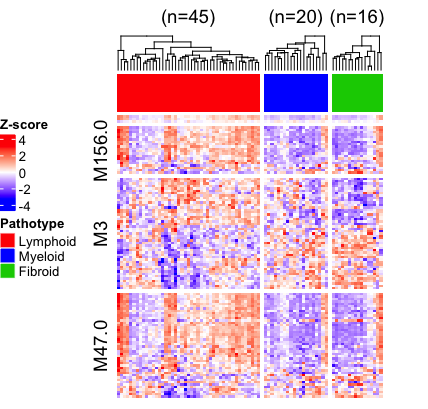
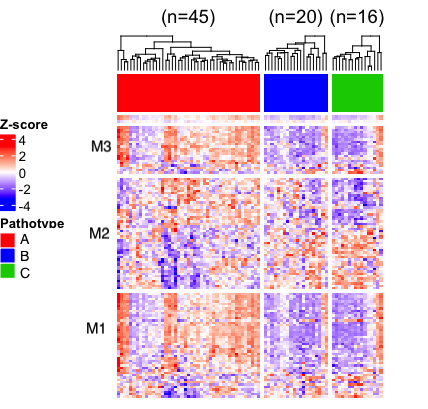
treatment group comparison added

diff --git a/README.md b/README.md
@@ -6,6 +6,8 @@
     -   [bio\_frequency](#bio_frequency)
     -   [bio\_volcano](#bio_volcano)
     -   [bio\_bires](#bio_bires)
+    -   [bio\_mods](#bio_mods)
+    -   [bio\_treatmentGroups](#bio_treatmentgroups)
 
 ------------------------------------------------------------------------
 
@@ -28,7 +30,8 @@ Gallery
     <td style="vertical-align:top" align="center" height="200"><a href="#freq">Frequency Table</a><img src= ./figs/bio_freq.png  height="50" width="330"/></td>
   </tr>
 <tr>
-    <td align="center" style="vertical-align:top" height="200"><a href="#volc">Module Plot</a><img src= ./figs/bio_mods.png  height="150" width="330"/></td>
+    <td align="center" style="vertical-align:top" height="200"><a href="#mods">Module Plot</a><img src= ./figs/bio_mods.png  height="150" width="330"/></td>
+    <td align="center" style="vertical-align:top" height="200"><a href="#tgcomp">Treatment Group Comparisons</a><img src= ./figs/bio_treatmentGroups.png  height="150" width="330"/></td>
     <td align="center" style="vertical-align:top" height="200"><a href="#volc">Volcano Plot</a><img src= ./figs/bio_volcano.png  height="150" width="330"/></td>
   </tr>
 </table>
@@ -41,6 +44,12 @@ Required packages
 [`dplyr`](https://dplyr.tidyverse.org)
 [`ggplot2`](https://ggplot2.tidyverse.org)
 [`ggrepel`](https://cran.r-project.org/web/packages/ggrepel/vignettes/ggrepel.html)
+[`ComplexHeatmap`](http://bioconductor.org/packages/release/bioc/html/ComplexHeatmap.html)
+[`RColorBrewer`](https://www.rdocumentation.org/packages/RColorBrewer/versions/1.1-2/topics/RColorBrewer)
+[`Rmisc`](https://www.rdocumentation.org/packages/Rmisc/versions/1.5)
+[`ggpubr`](https://cran.r-project.org/web/packages/ggpubr/index.html)
+[`grid`](https://www.rdocumentation.org/packages/grid/versions/3.5.2)
+[`pBrackets`](https://cran.r-project.org/web/packages/pBrackets/index.html)
 
 ------------------------------------------------------------------------
 
@@ -53,8 +62,16 @@ required packages.
     install.packages("devtools")
     library("devtools")
 
-    library(devtools)
-    library(knitr)
+    ## Warning: package 'cowplot' was built under R version 3.5.2
+
+    ## Loading required package: ggplot2
+
+    ## 
+    ## Attaching package: 'cowplot'
+
+    ## The following object is masked from 'package:ggplot2':
+    ## 
+    ##     ggsave
 
 Now install the BioOutputs package.
 
@@ -292,24 +309,29 @@ bio\_volcano
 This function generates a volcano plot from a top table using ggplot.
 The function contains many parameters, use `?bio_volcano` to interogate.
 
-Lets look at the leukemia data set
+Lets look at the ALS patients carrying the C9ORF72 data set
 
-    BiocManager::install("leukemiasEset", version = "3.8")
+<!-- ```{r, message=FALSE, warning=FALSE, eval=FALSE} -->
+<!-- BiocManager::install("leukemiasEset", version = "3.8") -->
+<!-- ``` -->
+<!-- ```{r, message=FALSE, warning=FALSE} -->
+<!-- library(leukemiasEset) -->
+<!-- library(limma) -->
+<!-- ``` -->
+<!-- ```{r, message=FALSE, warning=FALSE} -->
+<!-- data(leukemiasEset) -->
+<!-- ourData <- leukemiasEset[, leukemiasEset$LeukemiaType %in% c("ALL", "NoL")] -->
+<!-- ourData$LeukemiaType <- factor(ourData$LeukemiaType) -->
+<!-- design <- model.matrix(~ ourData$LeukemiaType) -->
+<!-- fit <- lmFit(ourData, design) -->
+<!-- fit <- eBayes(fit) -->
+<!-- toptable <- topTable(fit) -->
+<!-- toptable$pvalue = toptable$P.Value -->
+<!-- ``` -->
+    toptable <- read.table("https://gist.githubusercontent.com/stephenturner/806e31fce55a8b7175af/raw/1a507c4c3f9f1baaa3a69187223ff3d3050628d4/results.txt", sep="", header=T)
+    rownames(toptable) = toptable$Gene
 
-    library(leukemiasEset)
-    library(limma)
-
-    data(leukemiasEset)
-    ourData <- leukemiasEset[, leukemiasEset$LeukemiaType %in% c("ALL", "NoL")]
-    ourData$LeukemiaType <- factor(ourData$LeukemiaType)
-
-    design <- model.matrix(~ ourData$LeukemiaType)
-    fit <- lmFit(ourData, design)
-    fit <- eBayes(fit)
-    toptable <- topTable(fit)
-    toptable$pvalue = toptable$P.Value
-
-    bio_volcano(toptable, fc.col="logFC", label.row.indices=1:10, main="leukemia", add.lines=FALSE)
+    bio_volcano(toptable, fc.col="log2FoldChange", label.row.indices=1:10, main="ALS patients carrying the C9ORF72", add.lines=TRUE)
 
 ![](README_files/figure-markdown_strict/bio_volcano-1.png)
 
@@ -331,3 +353,56 @@ either a line or markers/points.
     bio_bires(x="time", y="temp", df.data, x.plane="time", y.plane="temp", df.plane)
 
 ![](README_files/figure-markdown_strict/bires-1.png)
+
+<a id="mods"></a>
+
+bio\_mods
+---------
+
+This function splits expression data into customisable modules and
+averages over catagories in a given variable. In this example we will
+look at two Li modules and a custom one I made up.
+
+    ## Warning: namespace 'DOSE' is not available and has been replaced
+    ## by .GlobalEnv when processing object '.DOSEEnv'
+
+    exp = rld.syn
+    meta <- rld.metadata.syn
+    mean.var = "Pathotype"
+    cols = NULL
+    cluster.rows=FALSE
+    bio_mods(exp=exp, mod.list=mod_list, meta=meta, mean.var = "Pathotype", show.names=TRUE, cluster.rows=FALSE)
+
+![](README_files/figure-markdown_strict/mods-1.png)
+
+<a id="tgcomp"></a>
+
+bio\_treatmentGroups
+--------------------
+
+    library(survival)
+    data(kidney)
+
+    df <- kidney
+    y.col="frail"
+    group.col="status"
+    x.col="time"
+    id.col="id"
+    df <- df[df$time < 150, ]
+    bio_treatmentGroups(df, group.col="status", y.col="frail", x.col="time")
+
+    ## Warning in checkConv(attr(opt, "derivs"), opt$par, ctrl =
+    ## control$checkConv, : Model failed to converge with max|grad| = 0.24405 (tol
+    ## = 0.002, component 1)
+
+    ## Warning in checkConv(attr(opt, "derivs"), opt$par, ctrl = control$checkConv, : Model is nearly unidentifiable: very large eigenvalue
+    ##  - Rescale variables?
+
+    ## Warning in as_lmerModLT(model, devfun): Model may not have converged with 1
+    ## eigenvalue close to zero: 6.1e-11
+
+    ## Warning in qt(conf.interval/2 + 0.5, datac$N - 1): NaNs produced
+
+    ## Warning: Removed 41 rows containing missing values (geom_errorbar).
+
+![](README_files/figure-markdown_strict/unnamed-chunk-11-1.png)
